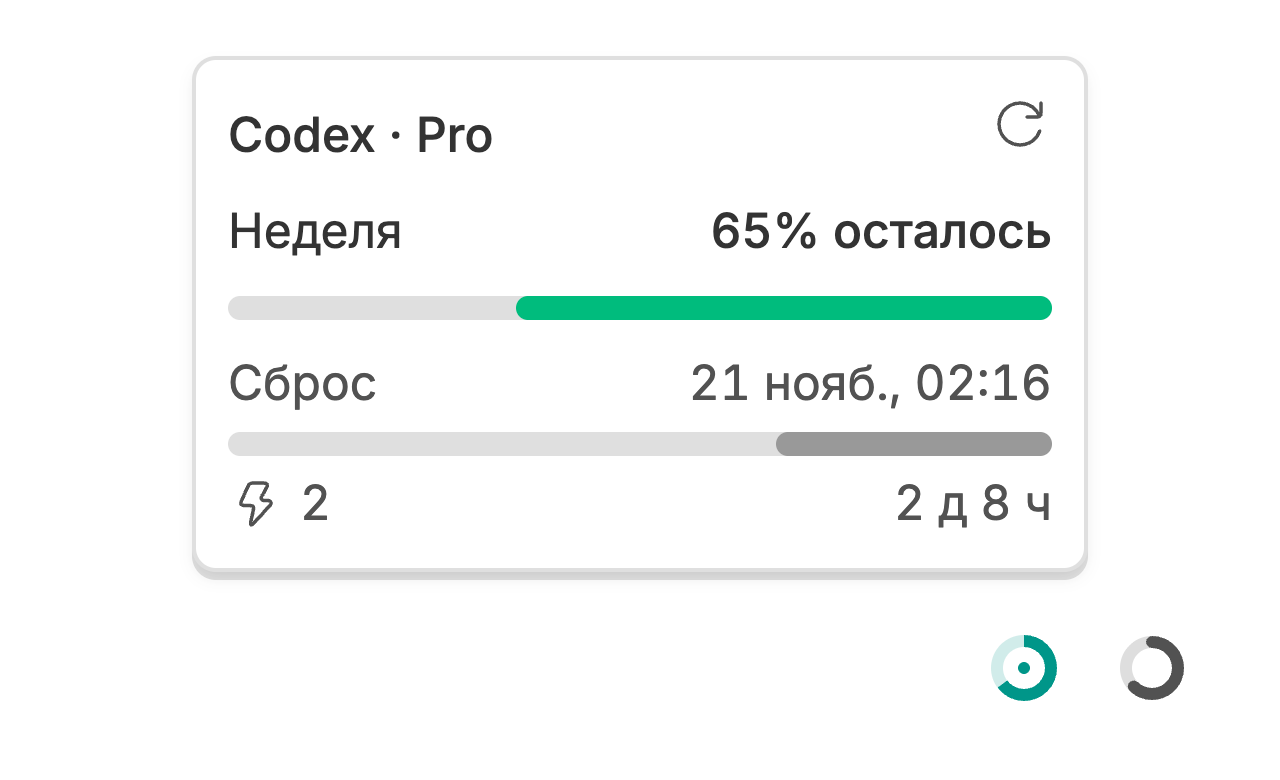
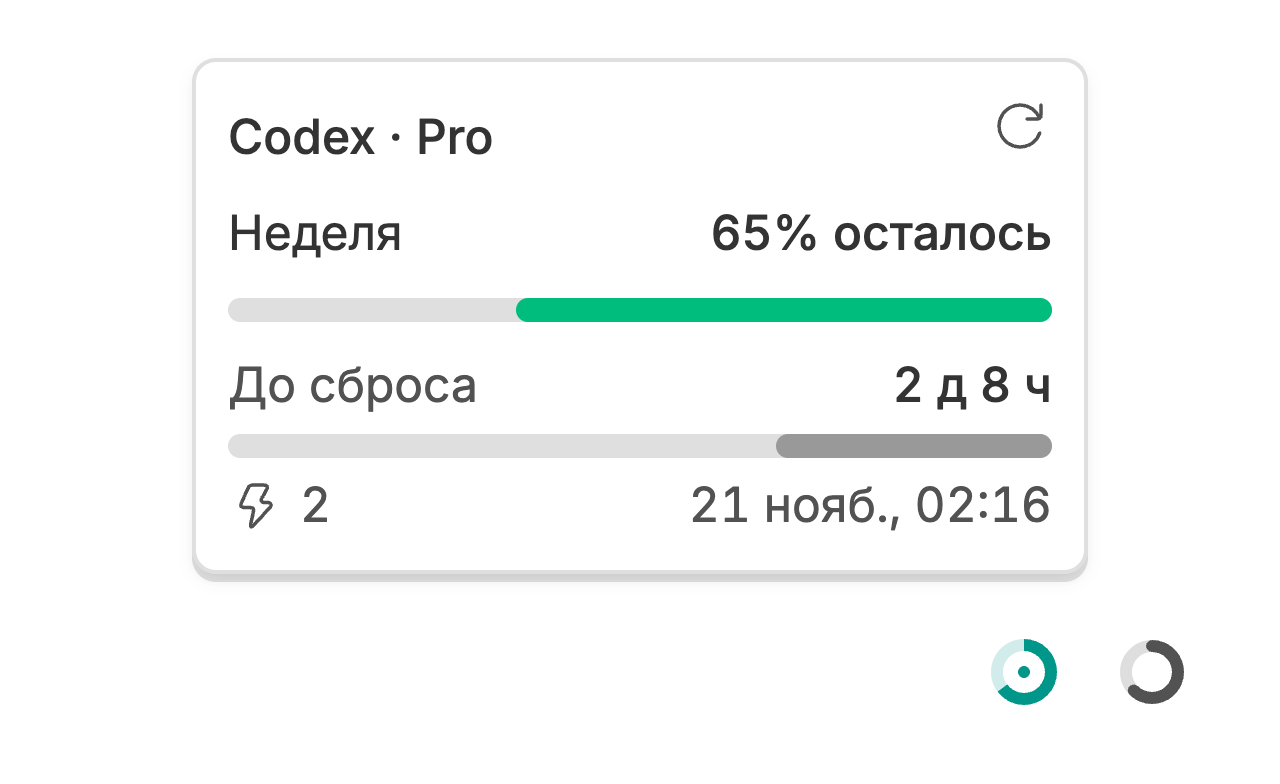
Show time remaining above the reset track

diff --git a/lib/format.ts b/lib/format.ts
@@ -3,7 +3,7 @@ const STALE_AFTER_MS = 90 * 60 * 1000;
 const english = {
   title: "Codex subscription", unavailable: "Quota unavailable", loading: "Loading quota…",
   refresh: "Refresh", refreshing: "Refreshing…", remaining: "left", used: "used",
-  manualResets: "Available resets", resets: "Resets", noExpiry: "No expiry", unknownExpiry: "Expiry unavailable", noResets: "No resets left", stale: "outdated", reset: "Resets at", waiting: "Waiting for quota update",
+  manualResets: "Available resets", resets: "Resets", noExpiry: "No expiry", unknownExpiry: "Expiry unavailable", noResets: "No resets left", stale: "outdated", resetsIn: "Resets in", waiting: "Waiting for quota update",
   fiveHour: "5 hours", daily: "Daily", weekly: "Weekly", day: "d", hour: "h", minute: "m",
 };
 
@@ -11,7 +11,7 @@ const en = quotaFormat("en-US", english);
 const ru = quotaFormat("ru-RU", {
   title: "Подписка Codex", unavailable: "Лимиты недоступны", loading: "Получаем лимиты…",
   refresh: "Обновить", refreshing: "Обновляем…", remaining: "осталось", used: "использовано",
-  manualResets: "Доступно сбросов", resets: "Сбросы", noExpiry: "Бессрочно", unknownExpiry: "Срок неизвестен", noResets: "Сбросов нет", stale: "устарело", reset: "Сброс", waiting: "Ожидаем обновления квоты",
+  manualResets: "Доступно сбросов", resets: "Сбросы", noExpiry: "Бессрочно", unknownExpiry: "Срок неизвестен", noResets: "Сбросов нет", stale: "устарело", resetsIn: "До сброса", waiting: "Ожидаем обновления квоты",
   fiveHour: "5 часов", daily: "Сутки", weekly: "Неделя", day: "д", hour: "ч", minute: "мин",
 });
 

diff --git a/app.tsx b/app.tsx
@@ -39,14 +39,17 @@ function WindowRow({ window, fresh, now, format, resetCount }: {
     </div>
     {untilReset !== null ? <div className="grid gap-1 text-muted-foreground tabular-nums">
       <div className="flex flex-wrap items-baseline justify-between gap-x-2">
-        <span>{text.reset}</span><time dateTime={window.resetsAt!}>{formatDate(window.resetsAt!)}</time>
+        {untilReset > 0 ? <>
+          <span>{text.resetsIn}</span>
+          <span className="ml-auto font-medium text-popover-foreground">{formatCountdown(untilReset)}</span>
+        </> : <span>{text.waiting}</span>}
       </div>
       {timePercent !== null && <div aria-hidden="true" className={trackClass}>
         <div className="h-full rounded-full bg-muted-foreground/50" style={{ width: `${timePercent}%` }} />
       </div>}
       <div className="flex items-center gap-2">
         {resetCount}
-        <span className="ml-auto text-end">{untilReset === 0 ? text.waiting : formatCountdown(untilReset)}</span>
+        <time className="ml-auto text-end" dateTime={window.resetsAt!}>{formatDate(window.resetsAt!)}</time>
       </div>
     </div> : resetCount}
   </div>;

diff --git a/README.ru.md b/README.ru.md
@@ -17,7 +17,7 @@
 
 </details>
 
-Молния рядом с отсчётом показывает число доступных ручных сбросов, в том числе ноль. Наведите курсор на молнию, чтобы увидеть сроки. Просмотр не расходует сбросы. Если Codex не передал число, молния скрыта.
+Молния внизу карточки показывает число доступных ручных сбросов, в том числе ноль. Наведите курсор на молнию, чтобы увидеть сроки. Просмотр не расходует сбросы. Если Codex не передал число, молния скрыта.
 
 Клик по кольцу закрывает карточку, открытую наведением. Повторный клик открывает её снова. На сенсорном экране карточка открывается и закрывается касанием кольца, с клавиатуры — клавишами **Enter** или **Пробел**. **Esc** закрывает карточку. Пока чат виден, плагин проверяет лимиты каждые две минуты. Кнопка **Обновить** запрашивает свежие данные. Если данных нет, им уже 90 минут или наступило время сброса, вместо процента появится **?**.
 

diff --git a/README.md b/README.md
@@ -17,7 +17,7 @@ With 78% of the five-hour quota and 46% of the weekly quota left, the ring shows
 
 </details>
 
-A lightning bolt beside the countdown shows how many manual resets are available, including zero. Hover over the bolt to see expiry dates. Viewing them never uses a reset. If Codex cannot report the count, the icon stays hidden.
+The lightning bolt at the bottom of the card shows how many manual resets are available, including zero. Hover over the bolt to see expiry dates. Viewing them never uses a reset. If Codex cannot report the count, the icon stays hidden.
 
 A **?** means usage is missing, at least 90 minutes old, or due for a new reading after a reset.
 
